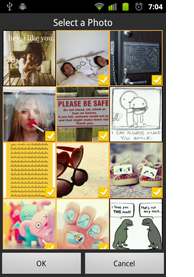
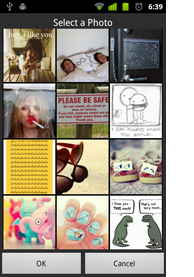
updated screenshots

diff --git a/Android/ChutePhotoPicker+/src/com/chute/android/photopickerplus/app/PhotoStreamActivity.java b/Android/ChutePhotoPicker+/src/com/chute/android/photopickerplus/app/PhotoStreamActivity.java
@@ -19,6 +19,7 @@ import android.widget.AdapterView;
 import android.widget.AdapterView.OnItemClickListener;
 import android.widget.Button;
 import android.widget.GridView;
+import android.widget.TextView;
 
 import com.chute.android.photopickerplus.R;
 import com.chute.android.photopickerplus.adapter.PhotoSelectCursorMultiAdapter;
@@ -36,6 +37,7 @@ public class PhotoStreamActivity extends Activity {
 	private PhotoSelectCursorMultiAdapter gridAdapterMulti;
 	private PhotoSelectCursorSingleAdapter gridAdapterSingle;
 	PhotoStreamActivityIntentWrapper photoStreamWrapper;
+	private TextView selectPhotos;
 
 	/** Called when the activity is first created. */
 	@Override
@@ -43,6 +45,7 @@ public class PhotoStreamActivity extends Activity {
 		super.onCreate(savedInstanceState);
 		setContentView(R.layout.photos_select);
 
+		selectPhotos = (TextView) findViewById(R.id.txt_select_photos);
 		grid = (GridView) findViewById(R.id.gridView);
 		grid.setEmptyView(findViewById(R.id.empty_view_layout));
 		photoStreamWrapper = new PhotoStreamActivityIntentWrapper(getIntent());
@@ -75,6 +78,7 @@ public class PhotoStreamActivity extends Activity {
 				return;
 			}
 			if (photoStreamWrapper.getIsMultiPicker() == true) {
+				selectPhotos.setText(getApplicationContext().getResources().getString(R.string.select_photos));
 				if (gridAdapterMulti == null) {
 					gridAdapterMulti = new PhotoSelectCursorMultiAdapter(
 							PhotoStreamActivity.this, result);
@@ -86,6 +90,7 @@ public class PhotoStreamActivity extends Activity {
 				NotificationUtil.showPhotosAdapterToast(
 						getApplicationContext(), gridAdapterMulti.getCount());
 			} else {
+				selectPhotos.setText(getApplicationContext().getResources().getString(R.string.select_a_photo));
 				if (gridAdapterSingle == null) {
 					gridAdapterSingle = new PhotoSelectCursorSingleAdapter(
 							PhotoStreamActivity.this, result);

diff --git a/Android/PhotoPickerPlusTutorial/src/com/chute/photopickerplustutorial/app/PhotoPickerPlusTutorialActivity.java b/Android/PhotoPickerPlusTutorial/src/com/chute/photopickerplustutorial/app/PhotoPickerPlusTutorialActivity.java
@@ -32,7 +32,7 @@ public class PhotoPickerPlusTutorialActivity extends Activity {
 	 * in a grid. If you wish to enable multi-picking functionality, set
 	 * isMultipicker=true, otherwise set isMultiPicker=false.
 	 */
-	private boolean isMultiPicker = true;
+	private boolean isMultiPicker = false;
 
 	@Override
 	public void onCreate(Bundle savedInstanceState) {
